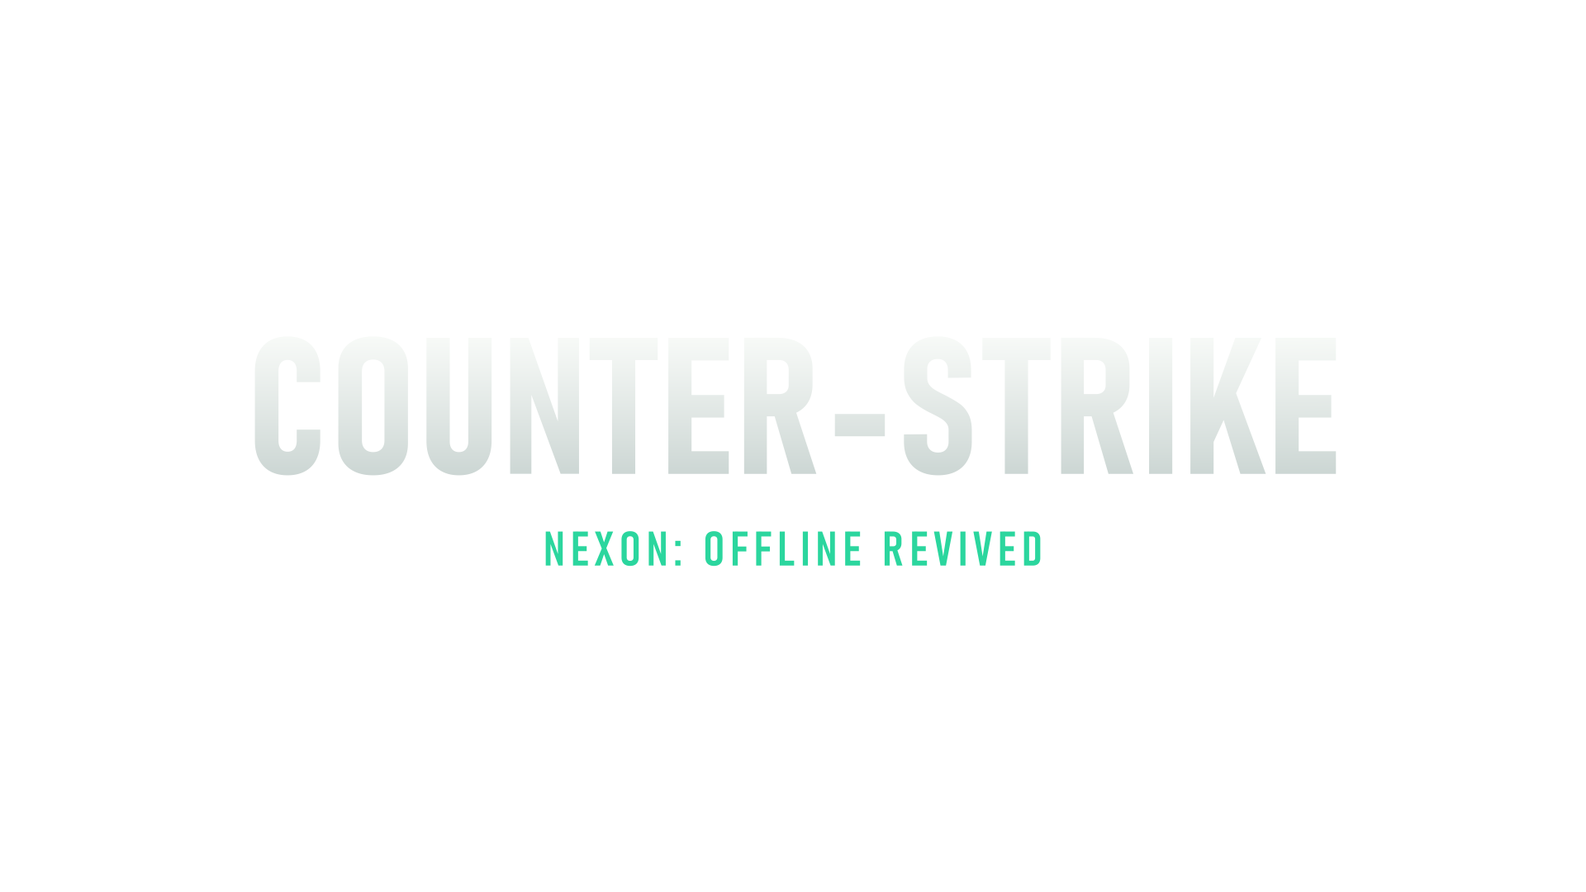
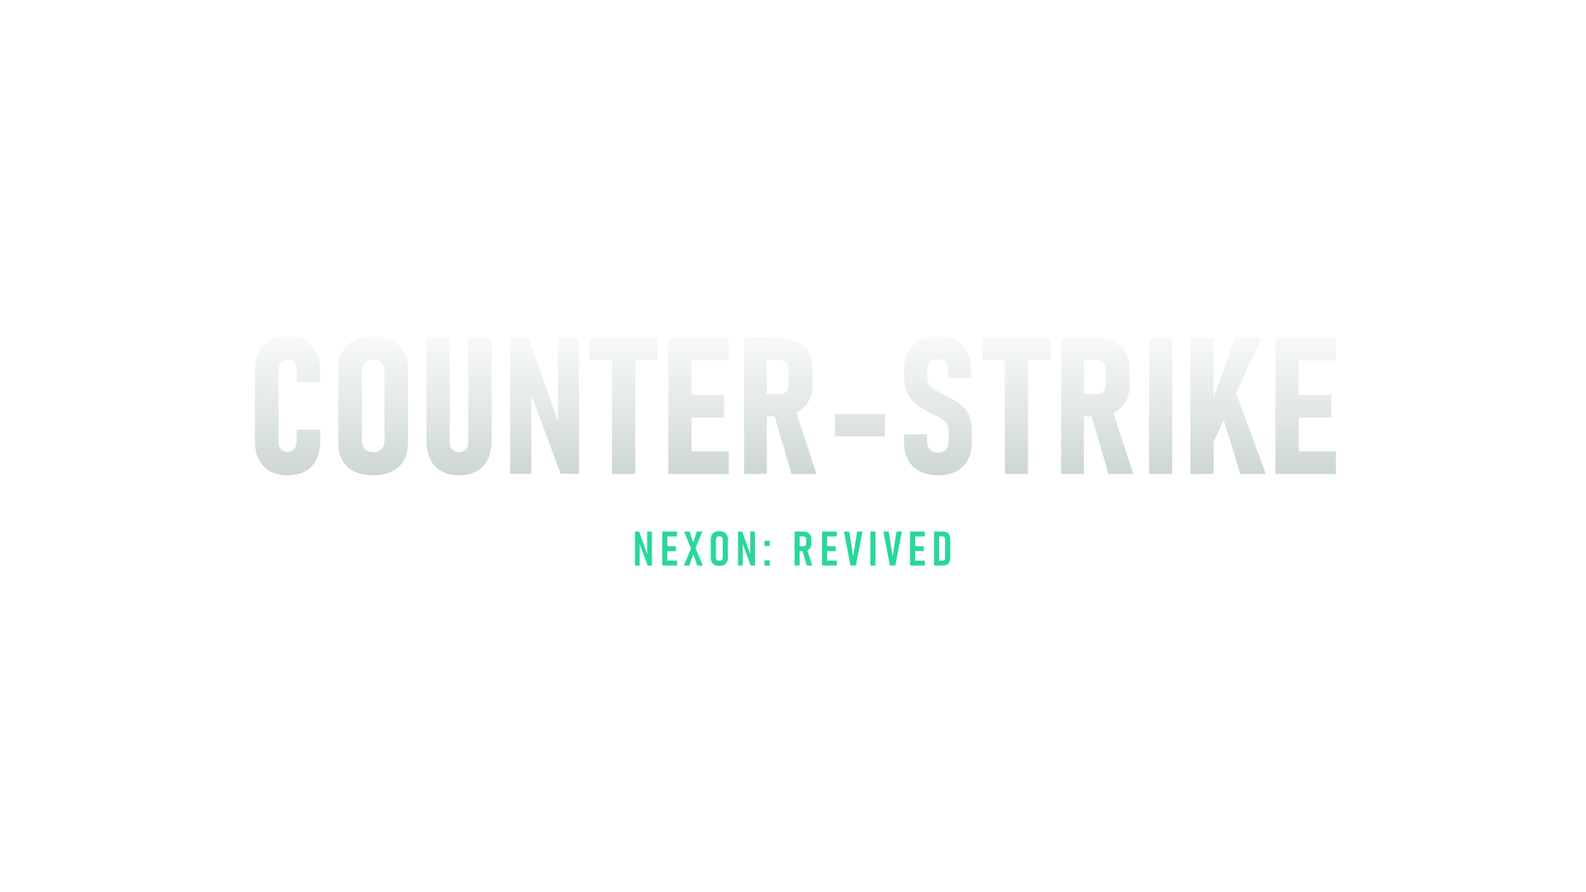
Rename the project to Counter-Strike Nexon: Revived
"Offline" goes from the name everywhere: README and banner, launcher (window, logo, shortcuts, default folder,
exe name), server welcome texts, version info, release files and the GitHub repository's address.

Launchers up to v1.1.30 only look for CSNZ-Offline-Revived-*.zip, so build_release.py also writes the same zip
under that name for them; the new launcher takes either. The launcher's own update keeps its file name, so
existing installs aren't moved, and the new desktop shortcut replaces the one with the old name.

Changed region(s): [[0.3438, 0.5806, 0.6562, 0.6417]]

diff --git a/launcher/MainForm.cs b/launcher/MainForm.cs
@@ -41,7 +41,7 @@ namespace CsnzLauncher
         public MainForm(bool autoPlay = false)
         {
             this.autoPlay = autoPlay;
-            Text = "Counter-Strike Nexon: Offline Revived";
+            Text = "Counter-Strike Nexon: Revived";
             FormBorderStyle = FormBorderStyle.None;
             ClientSize = new Size(980, 640);
             StartPosition = FormStartPosition.CenterScreen;
@@ -188,17 +188,21 @@ namespace CsnzLauncher
             try
             {
                 var desktop = Environment.GetFolderPath(Environment.SpecialFolder.DesktopDirectory);
-                var link = Path.Combine(desktop, "Counter-Strike Nexon Offline Revived.lnk");
+                var link = Path.Combine(desktop, "Counter-Strike Nexon Revived.lnk");
                 var shell = Activator.CreateInstance(Type.GetTypeFromProgID("WScript.Shell"));
                 dynamic sc = shell.GetType().InvokeMember("CreateShortcut", System.Reflection.BindingFlags.InvokeMethod, null, shell, new object[] { link });
                 sc.TargetPath = Application.ExecutablePath;
                 sc.Arguments = "--play";
                 sc.WorkingDirectory = Paths.Root;
                 sc.IconLocation = Application.ExecutablePath + ",0";
-                sc.Description = "Counter-Strike Nexon: Offline Revived";
+                sc.Description = "Counter-Strike Nexon: Revived";
                 sc.Save();
+                // the one made under the project's old name (up to v1.1.30) goes
+                var old = Path.Combine(desktop, "Counter-Strike Nexon Offline Revived.lnk");
+                if (File.Exists(old))
+                    File.Delete(old);
                 Log("Desktop shortcut created: it opens the launcher and starts the game.");
-                DarkBox.Show(this, "\"Counter-Strike Nexon Offline Revived\" is on your desktop: it starts the game directly.", Text);
+                DarkBox.Show(this, "\"Counter-Strike Nexon Revived\" is on your desktop: it starts the game directly.", Text);
             }
             catch (Exception ex)
             {
@@ -677,7 +681,10 @@ namespace CsnzLauncher
         // the latest release's mod package, downloaded and installed over the mod (the player's own files are kept)
         void DownloadMod(string token)
         {
-            var zip = latest.Find(n => n.StartsWith("CSNZ-Offline-Revived-", StringComparison.OrdinalIgnoreCase) && n.EndsWith(".zip", StringComparison.OrdinalIgnoreCase));
+            // CSNZ-Revived-<version>.zip; up to v1.1.30 the project was "Offline Revived", and releases still carry a
+            // copy under that name for older launchers
+            var zip = latest.Find(n => n.StartsWith("CSNZ-Revived-", StringComparison.OrdinalIgnoreCase) && n.EndsWith(".zip", StringComparison.OrdinalIgnoreCase))
+                      ?? latest.Find(n => n.StartsWith("CSNZ-Offline-Revived-", StringComparison.OrdinalIgnoreCase) && n.EndsWith(".zip", StringComparison.OrdinalIgnoreCase));
             if (zip == null)
                 throw new Exception("The release has no mod package (.zip).");
             var tmp = Path.Combine(Path.GetTempPath(), zip.Name);
@@ -882,7 +889,7 @@ namespace CsnzLauncher
     {
         // Opened from the browser's download bar, the launcher runs from a new temporary copy each time (Chrome/Edge:
         // Downloads\scoped_dir..., else %TEMP%): the mod got installed there and every start asked to install it again.
-        // It offers a folder of its own (Documents\CSNZ Offline Revived by default), copies itself there and starts that copy.
+        // It offers a folder of its own (Documents\CSNZ Revived by default), copies itself there and starts that copy.
         static bool MoveOutOfTemporaryFolder()
         {
             var root = Paths.Root;
@@ -891,13 +898,13 @@ namespace CsnzLauncher
                              root.StartsWith(temp, StringComparison.OrdinalIgnoreCase);
             if (!temporary)
                 return false;
-            var target = Path.Combine(Environment.GetFolderPath(Environment.SpecialFolder.MyDocuments), "CSNZ Offline Revived");
+            var target = Path.Combine(Environment.GetFolderPath(Environment.SpecialFolder.MyDocuments), "CSNZ Revived");
             var answer = DarkBox.Show(
                 "The launcher was opened from a temporary folder (the browser's downloads bar):\n" + root + "\n\n" +
                 "Everything it installs there is lost, and next time it asks to install again.\n\n" +
                 "Yes: move it to " + target + " and open it from there (a desktop shortcut is made too).\n" +
                 "No: choose another folder.\nCancel: keep running from here.",
-                "Counter-Strike Nexon: Offline Revived", MessageBoxButtons.YesNoCancel, MessageBoxIcon.Warning);
+                "Counter-Strike Nexon: Revived", MessageBoxButtons.YesNoCancel, MessageBoxIcon.Warning);
             if (answer == DialogResult.Cancel)
                 return false;
             if (answer == DialogResult.No)
@@ -912,7 +919,7 @@ namespace CsnzLauncher
             try
             {
                 Directory.CreateDirectory(target);
-                var exe = Path.Combine(target, "CSNZ-Offline-Revived-Launcher.exe");
+                var exe = Path.Combine(target, "CSNZ-Revived-Launcher.exe");
                 File.Copy(Application.ExecutablePath, exe, true);
                 foreach (var keep in new[] { "launcher.json" })
                     if (File.Exists(Path.Combine(root, keep)) && !File.Exists(Path.Combine(target, keep)))
@@ -922,7 +929,7 @@ namespace CsnzLauncher
                     var desktop = Environment.GetFolderPath(Environment.SpecialFolder.DesktopDirectory);
                     var shell = Activator.CreateInstance(Type.GetTypeFromProgID("WScript.Shell"));
                     dynamic sc = shell.GetType().InvokeMember("CreateShortcut", System.Reflection.BindingFlags.InvokeMethod, null, shell,
-                        new object[] { Path.Combine(desktop, "Counter-Strike Nexon Offline Revived Launcher.lnk") });
+                        new object[] { Path.Combine(desktop, "Counter-Strike Nexon Revived Launcher.lnk") });
                     sc.TargetPath = exe;
                     sc.WorkingDirectory = target;
                     sc.IconLocation = exe + ",0";
@@ -934,7 +941,7 @@ namespace CsnzLauncher
             }
             catch (Exception ex)
             {
-                DarkBox.Show("Couldn't move the launcher: " + ex.Message, "Counter-Strike Nexon: Offline Revived");
+                DarkBox.Show("Couldn't move the launcher: " + ex.Message, "Counter-Strike Nexon: Revived");
                 return false;
             }
         }

diff --git a/mod/tools/release/build_release.py b/mod/tools/release/build_release.py
@@ -1,9 +1,10 @@
-"""Builds a release of CSNZ Offline Revived into dist/ (at the repository's root):
+"""Builds a release of CSNZ Revived into dist/ (at the repository's root):
 
-  dist/CSNZ-Offline-Revived-<version>.zip      the mod: every file Git tracks under mod/ at HEAD, the built binaries
-                                               (botassist.asi, CSNZ_Server.exe and its DLLs, nartool.exe) and
-                                               mod/patches.json (the client patches with their file offsets)
-  dist/CSNZ-Offline-Revived-Launcher.exe       the launcher (launcher/, .NET Framework 4.8)
+  dist/CSNZ-Revived-<version>.zip          the mod: every file Git tracks under mod/ at HEAD, the built binaries
+                                           (botassist.asi, CSNZ_Server.exe and its DLLs, nartool.exe) and
+                                           mod/patches.json (the client patches with their file offsets)
+  dist/CSNZ-Offline-Revived-<version>.zip  the same zip under the project's old name, for launchers up to v1.1.30
+  dist/CSNZ-Revived-Launcher.exe           the launcher (launcher/, .NET Framework 4.8)
 
 No file of the game goes in: the launcher patches the player's own Steam copy. Nor does anything of the player's:
 accounts (UserDatabase.db3), the server's certificate and key (the launcher makes them on each PC), logs, backups,
@@ -55,6 +56,8 @@ SIGNED = [
 ]
 # tracked but not for players
 LEAVE_OUT = ["mod/CSNZ_Offline.ps1"]  # the developer's old launcher (his paths)
+# the project's name until v1.1.30 ("Counter-Strike Nexon: Offline Revived")
+LEGACY_PREFIX = "CSNZ-Offline-Revived-"
 
 
 def patch_list(version: str) -> dict:
@@ -87,7 +90,7 @@ def sign(files):
         return
     stamp = os.environ.get("CSNZ_SIGN_TIMESTAMP", "http://time.certum.pl")
     subprocess.run([signtool(), "sign", "/sha1", cert, "/fd", "sha256", "/tr", stamp, "/td", "sha256",
-                    "/d", "Counter-Strike Nexon: Offline Revived", "/du", "https://github.com/ElSerbe/Counter-Strike-Nexon-Offline-Revived",
+                    "/d", "Counter-Strike Nexon: Revived", "/du", "https://github.com/ElSerbe/Counter-Strike-Nexon-Revived",
                     *[str(f) for f in files]], check=True)
     subprocess.run([signtool(), "verify", "/pa", *[str(f) for f in files]], check=True, stdout=subprocess.DEVNULL)
     print(f"signed {len(files)} files")
@@ -106,7 +109,7 @@ def main():
 
     # the mod at HEAD, as Git has it
     tar = subprocess.run(["git", "-C", str(ROOT), "archive", "--format=tar", "HEAD", "mod"], check=True, capture_output=True).stdout
-    zpath = DIST / f"CSNZ-Offline-Revived-{version}.zip"
+    zpath = DIST / f"CSNZ-Revived-{version}.zip"
     count = 0
     with zipfile.ZipFile(zpath, "w", zipfile.ZIP_DEFLATED, compresslevel=9) as z, tarfile.open(fileobj=io.BytesIO(tar)) as t:
         for m in t.getmembers():
@@ -120,13 +123,18 @@ def main():
         z.writestr("mod/patches.json", json.dumps(patch_list(version), indent=1))
         z.writestr("mod/VERSION", version + "\n")
     print(f"{zpath.name}: {count + 2} files, {zpath.stat().st_size / 1048576:.1f} MB")
+    # launchers up to v1.1.30 only take a zip named CSNZ-Offline-Revived-*.zip (the project's old name): the same zip
+    # under that name too, so they can still update (and get the new launcher along with it)
+    legacy = DIST / f"{LEGACY_PREFIX}{version}.zip"
+    shutil.copy2(zpath, legacy)
+    print(f"{legacy.name}: the same zip for launchers up to v1.1.30")
 
     # the launcher, with the same version
     out = DIST / "launcher-build"
     subprocess.run(["dotnet", "build", str(ROOT / "launcher" / "CsnzLauncher.csproj"), "-c", "Release", "-o", str(out),
                     f"-p:Version={version}", "-nologo", "-v", "q"], check=True)
-    exe = DIST / "CSNZ-Offline-Revived-Launcher.exe"
-    shutil.copy2(out / "CSNZ-Offline-Revived-Launcher.exe", exe)
+    exe = DIST / "CSNZ-Revived-Launcher.exe"
+    shutil.copy2(out / "CSNZ-Revived-Launcher.exe", exe)
     sign([exe])
     shutil.rmtree(out)
     print(f"{exe.name}: {exe.stat().st_size / 1024:.0f} KB")
@@ -166,8 +174,13 @@ def install_into_play(zpath: Path, exe: Path):
     except PermissionError as e:
         sys.exit(f"Play: {e.filename or 'a file of the mod'} is in use. Close the game and the server started from Play, "
                  f"then run build_release.py --play-only")
+    # the launcher's own update keeps the name its .exe has, so an older Play keeps CSNZ-Offline-Revived-Launcher.exe
+    target = play / exe.name
+    old = play / f"{LEGACY_PREFIX}Launcher.exe"
+    if not target.exists() and old.exists():
+        target = old
     try:
-        shutil.copy2(exe, play / exe.name)
+        shutil.copy2(exe, target)
         launcher = "and the launcher"
     except PermissionError:
         # the launcher is open (its own .exe can't be replaced while it runs): the mod's files are in all the same
@@ -179,6 +192,6 @@ if __name__ == "__main__":
     if "--play-only" in sys.argv:
         # the release already in dist/ into Play, without building it again
         v = (MOD / "VERSION").read_text().strip()
-        install_into_play(DIST / f"CSNZ-Offline-Revived-{v}.zip", DIST / "CSNZ-Offline-Revived-Launcher.exe")
+        install_into_play(DIST / f"CSNZ-Revived-{v}.zip", DIST / "CSNZ-Revived-Launcher.exe")
     else:
         main()

diff --git a/launcher/Core.cs b/launcher/Core.cs
@@ -113,7 +113,7 @@ namespace CsnzLauncher
 
     public static class GitHub
     {
-        public const string Owner = "ElSerbe", Repo = "Counter-Strike-Nexon-Offline-Revived";
+        public const string Owner = "ElSerbe", Repo = "Counter-Strike-Nexon-Revived";
         public static string PageUrl => $"https://github.com/{Owner}/{Repo}";
 
         static GitHub()
@@ -149,7 +149,7 @@ namespace CsnzLauncher
         static HttpClient Client(string token, bool redirects = true)
         {
             var c = new HttpClient(new HttpClientHandler { AllowAutoRedirect = redirects }) { Timeout = TimeSpan.FromMinutes(30) };
-            c.DefaultRequestHeaders.UserAgent.ParseAdd("CSNZ-Offline-Revived-Launcher/" + Paths.LauncherVersion);
+            c.DefaultRequestHeaders.UserAgent.ParseAdd("CSNZ-Revived-Launcher/" + Paths.LauncherVersion);
             if (!string.IsNullOrEmpty(token))
                 c.DefaultRequestHeaders.Authorization = new AuthenticationHeaderValue("Bearer", token);
             return c;
@@ -946,7 +946,7 @@ namespace CsnzLauncher
         public static string Build(Settings settings)
         {
             var sb = new StringBuilder();
-            sb.AppendLine("Counter-Strike Nexon: Offline Revived - logs of the last session, " + DateTime.Now.ToString("yyyy-MM-dd HH:mm:ss"));
+            sb.AppendLine("Counter-Strike Nexon: Revived - logs of the last session, " + DateTime.Now.ToString("yyyy-MM-dd HH:mm:ss"));
             string windows = Environment.OSVersion.Version.ToString();
             try
             {
@@ -1110,7 +1110,7 @@ namespace CsnzLauncher
             var arch = RuntimeInformation.OSArchitecture == Architecture.Arm64 ? "-arm64" : Environment.Is64BitOperatingSystem ? "-amd64" : "";
             using (var http = new HttpClient { Timeout = TimeSpan.FromSeconds(30) })
             {
-                http.DefaultRequestHeaders.UserAgent.ParseAdd("CSNZ-Offline-Revived-Launcher");
+                http.DefaultRequestHeaders.UserAgent.ParseAdd("CSNZ-Revived-Launcher");
                 var index = http.GetStringAsync("https://www.python.org/ftp/python/").GetAwaiter().GetResult();
                 var versions = System.Text.RegularExpressions.Regex.Matches(index, "href=\"(3\\.\\d+\\.\\d+)/\"")
                     .Cast<System.Text.RegularExpressions.Match>().Select(m => new Version(m.Groups[1].Value)).Distinct().OrderByDescending(v => v);
@@ -1135,7 +1135,7 @@ namespace CsnzLauncher
             log($"Downloading Python {version} ({url})...");
             using (var http = new HttpClient { Timeout = TimeSpan.FromMinutes(10) })
             {
-                http.DefaultRequestHeaders.UserAgent.ParseAdd("CSNZ-Offline-Revived-Launcher");
+                http.DefaultRequestHeaders.UserAgent.ParseAdd("CSNZ-Revived-Launcher");
                 using (var r = http.GetAsync(url, HttpCompletionOption.ResponseHeadersRead).GetAwaiter().GetResult())
                 {
                     r.EnsureSuccessStatusCode();

diff --git a/launcher/SteamApi.cs b/launcher/SteamApi.cs
@@ -114,7 +114,7 @@ namespace CsnzLauncher
                 byte[] zip;
                 using (var http = new HttpClient { Timeout = TimeSpan.FromMinutes(5) })
                 {
-                    http.DefaultRequestHeaders.UserAgent.ParseAdd("CSNZ-Offline-Revived-Launcher");
+                    http.DefaultRequestHeaders.UserAgent.ParseAdd("CSNZ-Revived-Launcher");
                     zip = http.GetByteArrayAsync(EmulatorZipUrl).GetAwaiter().GetResult();
                 }
                 Directory.CreateDirectory(Path.GetDirectoryName(Emulator));
@@ -198,7 +198,7 @@ namespace CsnzLauncher
                 var url = $"https://archive.org/download/{ArchiveGame.Item}/{Uri.EscapeDataString(zip.Name)}/Bin/steam_api.dll";
                 using (var http = new HttpClient { Timeout = TimeSpan.FromMinutes(2) })
                 {
-                    http.DefaultRequestHeaders.UserAgent.ParseAdd("CSNZ-Offline-Revived-Launcher");
+                    http.DefaultRequestHeaders.UserAgent.ParseAdd("CSNZ-Revived-Launcher");
                     File.WriteAllBytes(part, http.GetByteArrayAsync(url).GetAwaiter().GetResult());
                 }
                 if (!IsValves(part))

diff --git a/launcher/Dialog.cs b/launcher/Dialog.cs
@@ -16,7 +16,7 @@ namespace CsnzLauncher
 
         DarkBox(string text, string caption, MessageBoxButtons buttons, MessageBoxIcon icon, string[] names = null)
         {
-            title = string.IsNullOrEmpty(caption) ? "Counter-Strike Nexon: Offline Revived" : caption;
+            title = string.IsNullOrEmpty(caption) ? "Counter-Strike Nexon: Revived" : caption;
             stripe = icon == MessageBoxIcon.Warning ? Theme.Warn : icon == MessageBoxIcon.Error ? Theme.Bad : Theme.Accent;
             Text = title;
             FormBorderStyle = FormBorderStyle.None;

diff --git a/launcher/Theme.cs b/launcher/Theme.cs
@@ -472,7 +472,7 @@ namespace CsnzLauncher
                 g.DrawString("COUNTER-STRIKE", f, b, 26, 44);
             using (var f = Theme.Display(26))
             using (var b = new SolidBrush(Theme.Accent))
-                g.DrawString("NEXON: OFFLINE REVIVED", f, b, 32, 134);
+                g.DrawString("NEXON: REVIVED", f, b, 32, 134);
             using (var f = Theme.UiFont(12))
             using (var b = new SolidBrush(Color.FromArgb(150, 170, 170)))
                 g.DrawString(Credits, f, b, 33, 170);

diff --git a/launcher/ArchiveGame.cs b/launcher/ArchiveGame.cs
@@ -36,7 +36,7 @@ namespace CsnzLauncher
         static HttpClient Client()
         {
             var c = new HttpClient(new HttpClientHandler { AllowAutoRedirect = true }) { Timeout = Timeout.InfiniteTimeSpan };
-            c.DefaultRequestHeaders.UserAgent.ParseAdd("CSNZ-Offline-Revived-Launcher");
+            c.DefaultRequestHeaders.UserAgent.ParseAdd("CSNZ-Revived-Launcher");
             return c;
         }
 

diff --git a/README.md b/README.md
@@ -1,14 +1,14 @@
 <p align="center">
-  <img src=".github/assets/banner.png" alt="Counter-Strike Nexon: Offline Revived" width="100%">
+  <img src=".github/assets/banner.png" alt="Counter-Strike Nexon: Revived" width="100%">
 </p>
 
 <p align="center">
   <a href="https://patreon.com/ltsYuri"><img src="https://img.shields.io/badge/Support_me_on-Patreon-F96854?style=for-the-badge&logo=patreon&logoColor=white" alt="Support me on Patreon"></a>
   <a href="https://discord.gg/fjxubwyhYv"><img src="https://img.shields.io/badge/Discord-Join-5865F2?style=for-the-badge&logo=discord&logoColor=white" alt="Discord"></a>
-  <a href="https://github.com/ElSerbe/Counter-Strike-Nexon-Offline-Revived/releases"><img src="https://img.shields.io/github/downloads/ElSerbe/Counter-Strike-Nexon-Offline-Revived/total?style=for-the-badge&logo=github&label=Downloads&color=15805F" alt="Downloads"></a>
+  <a href="https://github.com/ElSerbe/Counter-Strike-Nexon-Revived/releases"><img src="https://img.shields.io/github/downloads/ElSerbe/Counter-Strike-Nexon-Revived/total?style=for-the-badge&logo=github&label=Downloads&color=15805F" alt="Downloads"></a>
 </p>
 
-Counter-Strike Nexon: Zombies played offline, on your own PC, against room bots that play every mode: a local
+**Counter-Strike Nexon: Revived** is Counter-Strike Nexon: Zombies played offline, on your own PC, against room bots that play every mode: a local
 server (accounts, rooms, shop, inventory, missions, medals), client patches, and `botassist`, which gives the bots
 an AI for each mode (Zombie Giant, Zombie Scenario, Human Scenario, Zombie Tag, Soccer, All Star, Item Battle and
 more).
@@ -20,9 +20,9 @@ launcher gets it for you.
 
 ### The easy way: the launcher does everything
 
-1. Download **`CSNZ-Offline-Revived-Launcher.exe`** from the
-   [latest release](https://github.com/ElSerbe/Counter-Strike-Nexon-Offline-Revived/releases/latest) and put it in a
-   folder of its own (for example `Documents\CSNZ Offline Revived`).
+1. Download **`CSNZ-Revived-Launcher.exe`** from the
+   [latest release](https://github.com/ElSerbe/Counter-Strike-Nexon-Revived/releases/latest) and put it in a
+   folder of its own (for example `Documents\CSNZ Revived`).
 2. Open it. If Windows says *"Windows protected your PC"*, click **More info > Run anyway** (the launcher is new and
    not signed yet; see [Antivirus warnings](#antivirus-warnings)).
 3. Click **Install**. The launcher finds your game, or installs it if you don't have it (with Steam, or by
@@ -51,8 +51,8 @@ Handy extras in the launcher:
   `steam_api.dll` in its `Bin` on Play, so it starts without the game on your Steam account (v0.2.5 from its
   author's GitLab, see `mod\tools\goldberg`, LGPL v3; Valve's is kept for online play).
 - **The mod** is installed next to the launcher, in `mod\`. Don't open the launcher from the browser's downloads bar:
-  the browser runs a new temporary copy each time (the launcher offers to move itself to `Documents\CSNZ Offline
-  Revived` when that happens).
+  the browser runs a new temporary copy each time (the launcher offers to move itself to `Documents\CSNZ Revived`
+  when that happens).
 - **Play:** the first time, it adds the hosts block (the game's Nexon addresses go to 127.0.0.1; the only thing that
   needs administrator rights), makes the local server's certificate, patches the game, starts the local server and the
   game (which asks for administrator rights itself), and stops the server when the game closes.
@@ -75,8 +75,8 @@ If you'd rather not use the launcher, these are the same steps by hand. You need
 
 1. **Install the game** with Steam (or download the
    [Internet Archive copy](https://archive.org/details/csnz-1362486462562801379)).
-2. **Download** `CSNZ-Offline-Revived-<version>.zip` from the
-   [latest release](https://github.com/ElSerbe/Counter-Strike-Nexon-Offline-Revived/releases/latest) and unzip it
+2. **Download** `CSNZ-Revived-<version>.zip` from the
+   [latest release](https://github.com/ElSerbe/Counter-Strike-Nexon-Revived/releases/latest) and unzip it
    into a folder. You get a `mod` folder.
 3. **Back up the game** (to be able to undo): copy the game's `Bin` folder to `mod\backup\original\Bin`.
 4. **Patch the game** (in a terminal, in the folder that has `mod`):
@@ -160,7 +160,7 @@ There's no need to turn your antivirus off. If it stops one of them:
 ### Reporting a problem
 
 Something doesn't work? In the launcher: **Logs > Report a problem on GitHub...** (also in **More**). It opens the
-[problem form](https://github.com/ElSerbe/Counter-Strike-Nexon-Offline-Revived/issues/new?template=bug_report.yml)
+[problem form](https://github.com/ElSerbe/Counter-Strike-Nexon-Revived/issues/new?template=bug_report.yml)
 with your versions filled in and gets your logs ready to paste or drag in (you need a free GitHub account). Prefer to
 talk? Ask on [Discord](https://discord.gg/fjxubwyhYv).
 
@@ -197,6 +197,8 @@ The logs help a lot. For a problem that's hard to catch:
    (`mod/server/README.md`) and `nartool.exe` (`mod/tools/nartool/build.cmd`).
 2. Raise `mod/VERSION`, commit, then `python mod/tools/release/build_release.py`. With `CSNZ_SIGN_CERT` set to a code
    signing certificate's thumbprint it signs our programs first (see the script's header).
-3. `gh release create v<version> dist/CSNZ-Offline-Revived-<version>.zip dist/CSNZ-Offline-Revived-Launcher.exe`.
+3. `gh release create v<version> dist/CSNZ-Revived-<version>.zip dist/CSNZ-Offline-Revived-<version>.zip
+   dist/CSNZ-Revived-Launcher.exe`. The second zip is the same one under the project's old name: launchers up to
+   v1.1.30 only look for that name.
 
 The launcher compares the release's tag with `mod\VERSION` (and with its own version) to offer the update.

diff --git a/mod/tools/goldberg/README.md b/mod/tools/goldberg/README.md
@@ -16,4 +16,4 @@ the game starts without asking Steam. Valve's original is kept next to the Steam
 (`mod\tools\steambridge\out\steam_api.dll`): online play always goes through the real Steam with it.
 
 A game that already has the Goldberg build the mod shipped in v1.1.12 to v1.1.15 (2023-05-09) keeps it.
-`CSNZ-Offline-Revived-Launcher.exe --check --goldberg` tests the download (result in `launcher-check.txt`).
+`CSNZ-Revived-Launcher.exe --check --goldberg` tests the download (result in `launcher-check.txt`).

diff --git a/mod/LEEME.md b/mod/LEEME.md
@@ -1,8 +1,8 @@
-# Counter-Strike Nexon offline
+# Counter-Strike Nexon: Revived
 
 ## Jugar
 
-**Con el launcher** (cualquier PC): `CSNZ-Offline-Revived-Launcher.exe` de la última release de GitHub, en una
+**Con el launcher** (cualquier PC): `CSNZ-Revived-Launcher.exe` de la última release de GitHub, en una
 carpeta propia. Instala y actualiza el mod, parchea la copia de Steam del juego, añade el bloque del archivo `hosts`
 y arranca el servidor y el juego. Ver `README.md` en la raíz del repositorio.
 
